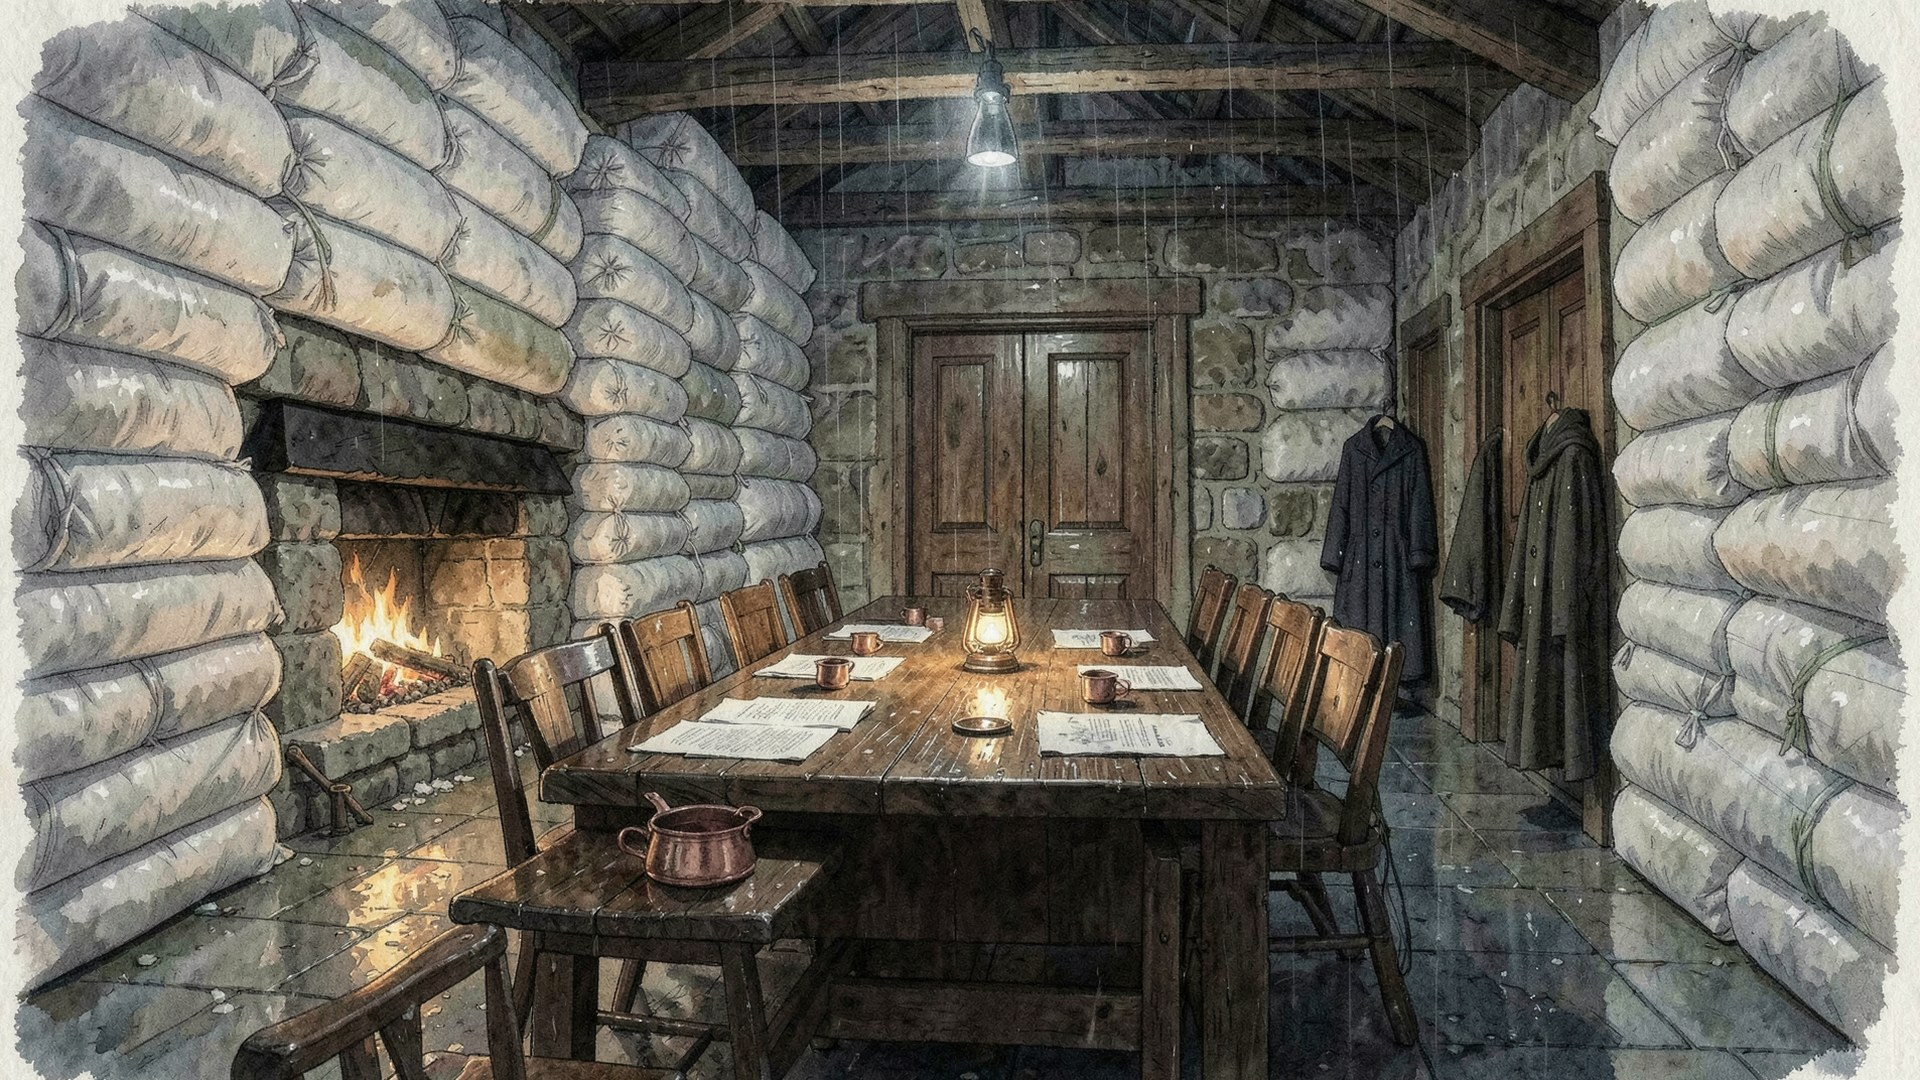
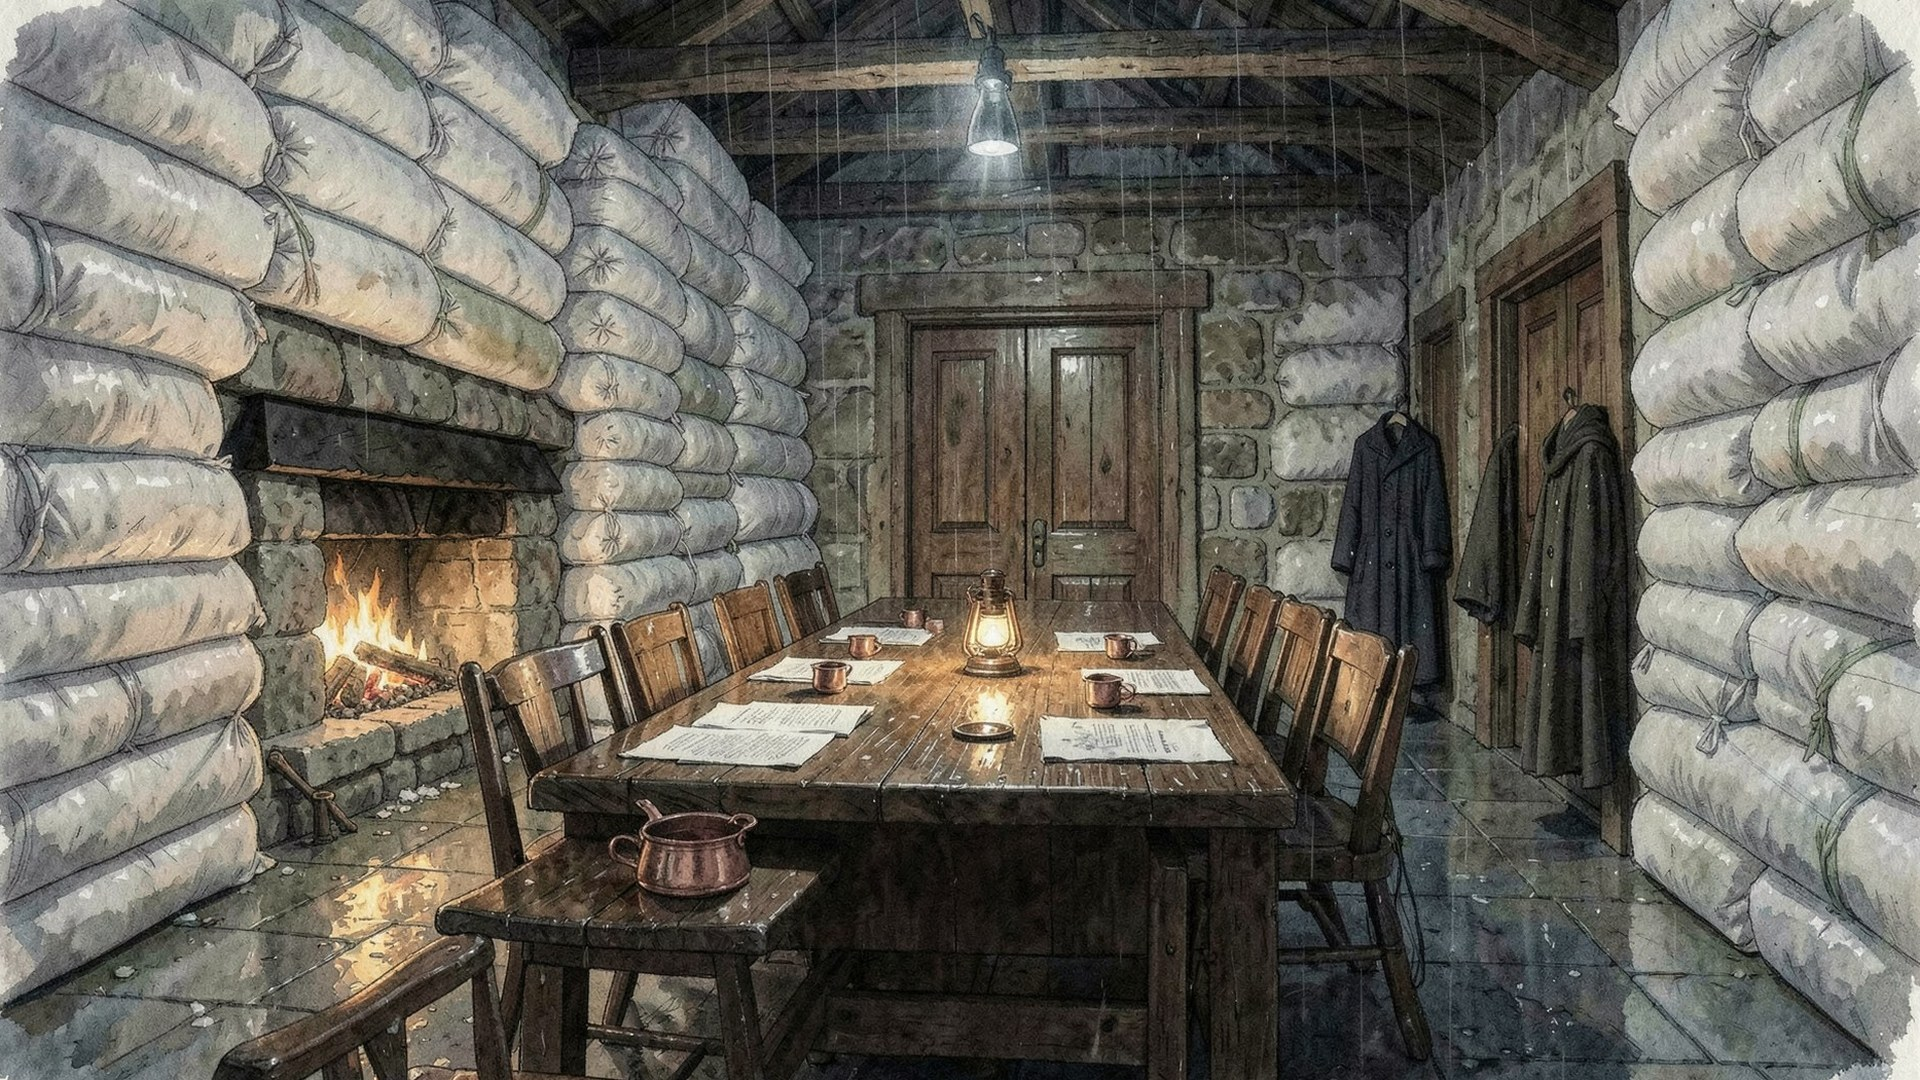
Rifilatura: sempre almeno l'1,2% per lato, contro la carta calda che sfugge alla soglia
La casa del sale di ponte-lanterne aveva una striscia di carta di ~20 px a destra con il
canale minimo a 217-222, appena sotto la soglia di 225: la misura non la vedeva. Abbassare
la soglia fa scambiare per carta neve e muri illuminati (provato su prova-f0), quindi si
toglie sempre un minimo dell'1,2% (23 px a 1920), che non si vede accanto all'8% del Ken
Burns. Applicato al ponte e alla casa del sale; bordo destro ora a 167 di media.

diff --git a/strumenti/immagini/rifila.py b/strumenti/immagini/rifila.py
@@ -32,6 +32,10 @@ CHIARO = 225        # tutti i canali sopra questo valore…
 SATURAZIONE = 22    # …e poca differenza tra i canali: carta
 PERCENTILE = 99     # profondità dell'orlo su un lato: il 99° percentile delle corse dal bordo
 MASSIMO = 0.05      # mai più del 5% per lato: oltre, il margine è largo e l'immagine va rigenerata
+# Sempre almeno l'1,2% per lato (23 px a 1920): una carta calda appena sotto la soglia (min 215-224,
+# casa del sale di ponte-lanterne) sfugge alla misura, e abbassare la soglia fa scambiare per carta la
+# neve e i muri illuminati. Un ingrandimento del 2,4% non si vede, accanto all'8% del Ken Burns.
+MINIMO = 0.012
 
 
 def _corse_dal_bordo(carta: np.ndarray, cap: int) -> np.ndarray:
@@ -54,7 +58,7 @@ def margini(img: Image.Image) -> dict[str, int]:
     return {lato: int(np.percentile(v, PERCENTILE)) for lato, v in misure.items()}
 
 
-def rifila(img: Image.Image, massimo: float = MASSIMO) -> tuple[Image.Image, float]:
+def rifila(img: Image.Image, massimo: float = MASSIMO, minimo: float = MINIMO) -> tuple[Image.Image, float]:
     """Ritaglia al centro, con le stesse proporzioni, quanto basta a togliere l'orlo di carta.
 
     Ritorna (immagine, frazione tolta per lato). Con frazione 0 l'immagine è quella di partenza.
@@ -63,7 +67,7 @@ def rifila(img: Image.Image, massimo: float = MASSIMO) -> tuple[Image.Image, flo
     w, h = img.size
     # Un ritaglio centrato con le stesse proporzioni toglie la stessa FRAZIONE su ogni lato:
     # deve bastare per il lato peggiore, in orizzontale e in verticale.
-    serve = max(m["sx"] / w, m["dx"] / w, m["su"] / h, m["giu"] / h)
+    serve = max(m["sx"] / w, m["dx"] / w, m["su"] / h, m["giu"] / h, minimo)
     if serve == 0:
         return img, 0.0
     if serve > massimo:

diff --git a/strumenti/immagini/genera.py b/strumenti/immagini/genera.py
@@ -158,13 +158,13 @@ def rifila_esistenti(cartella: Path, scelte: list[Richiesta], man: Manifest) -> 
     from PIL import Image
 
     from motore import salva_jpeg
-    from rifila import rifila
+    from rifila import MINIMO, rifila
 
     for r in scelte:
         voce = man.voci.get(r.id)
         # Si salta solo ciò che è già stato rifilato davvero: uno 0 può voler dire «mai controllato»
         # (i ritratti, prima che si rifilassero anche loro), e ricontrollare un'immagine pulita non la tocca.
-        if r.alias_di or not voce or voce.get("rifilato_pct"):
+        if r.alias_di or not voce or (voce.get("rifilato_pct") or 0) >= MINIMO * 100:
             continue
         percorso = man.cartella / voce["file"]
         if not percorso.exists():
